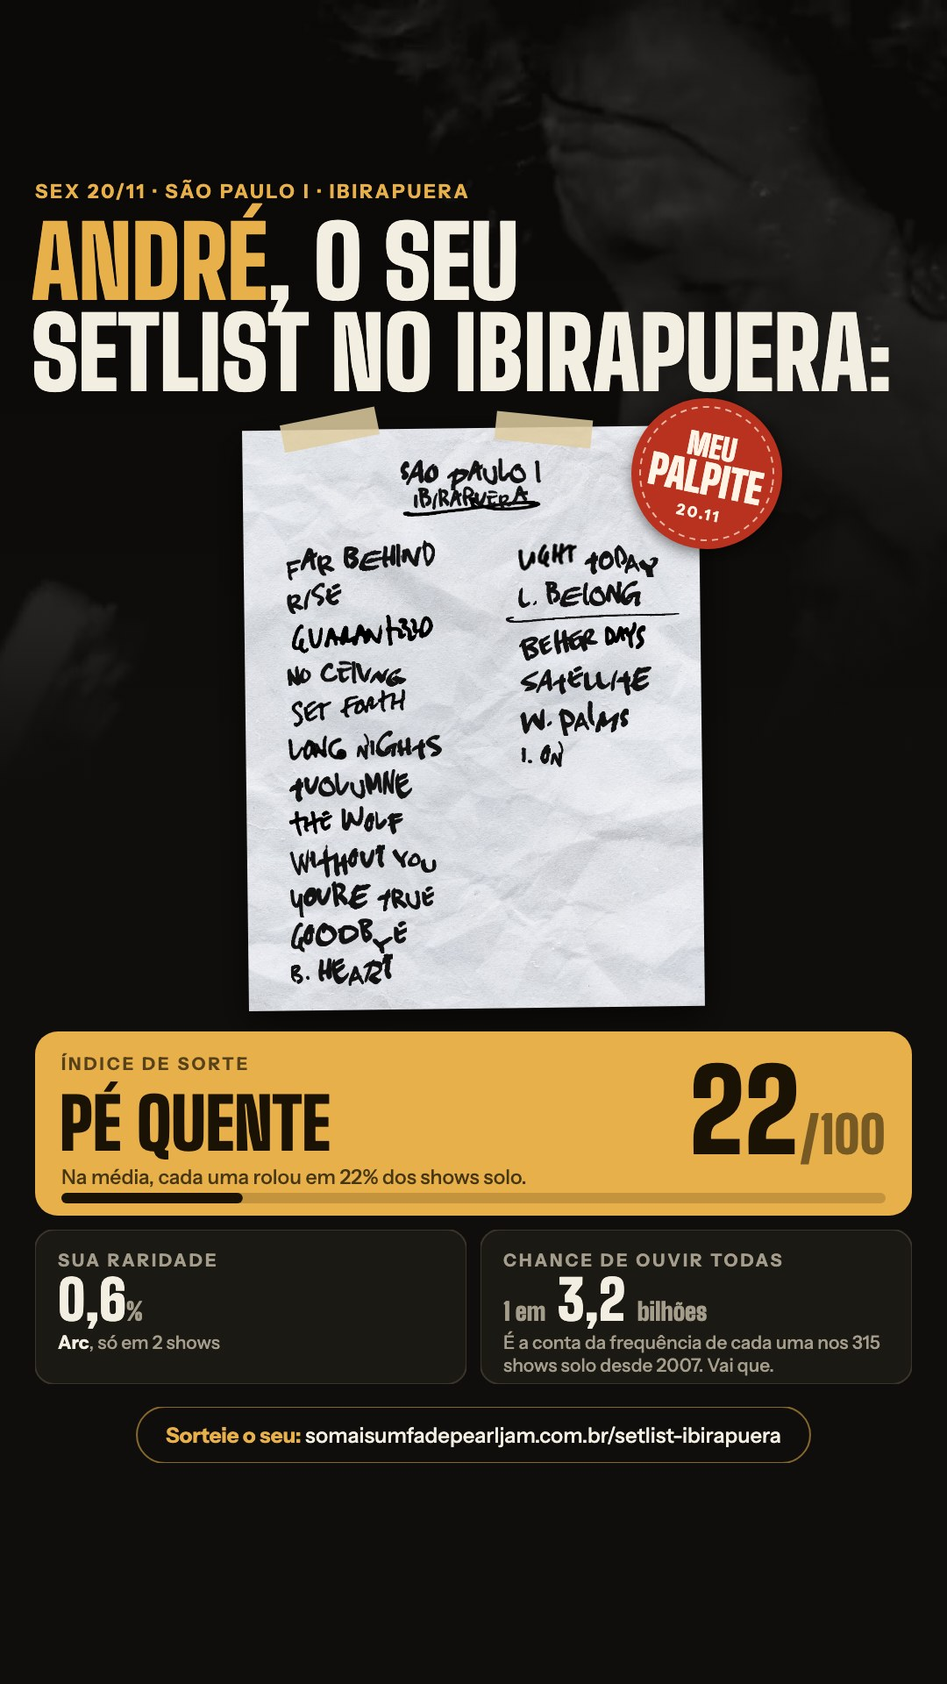
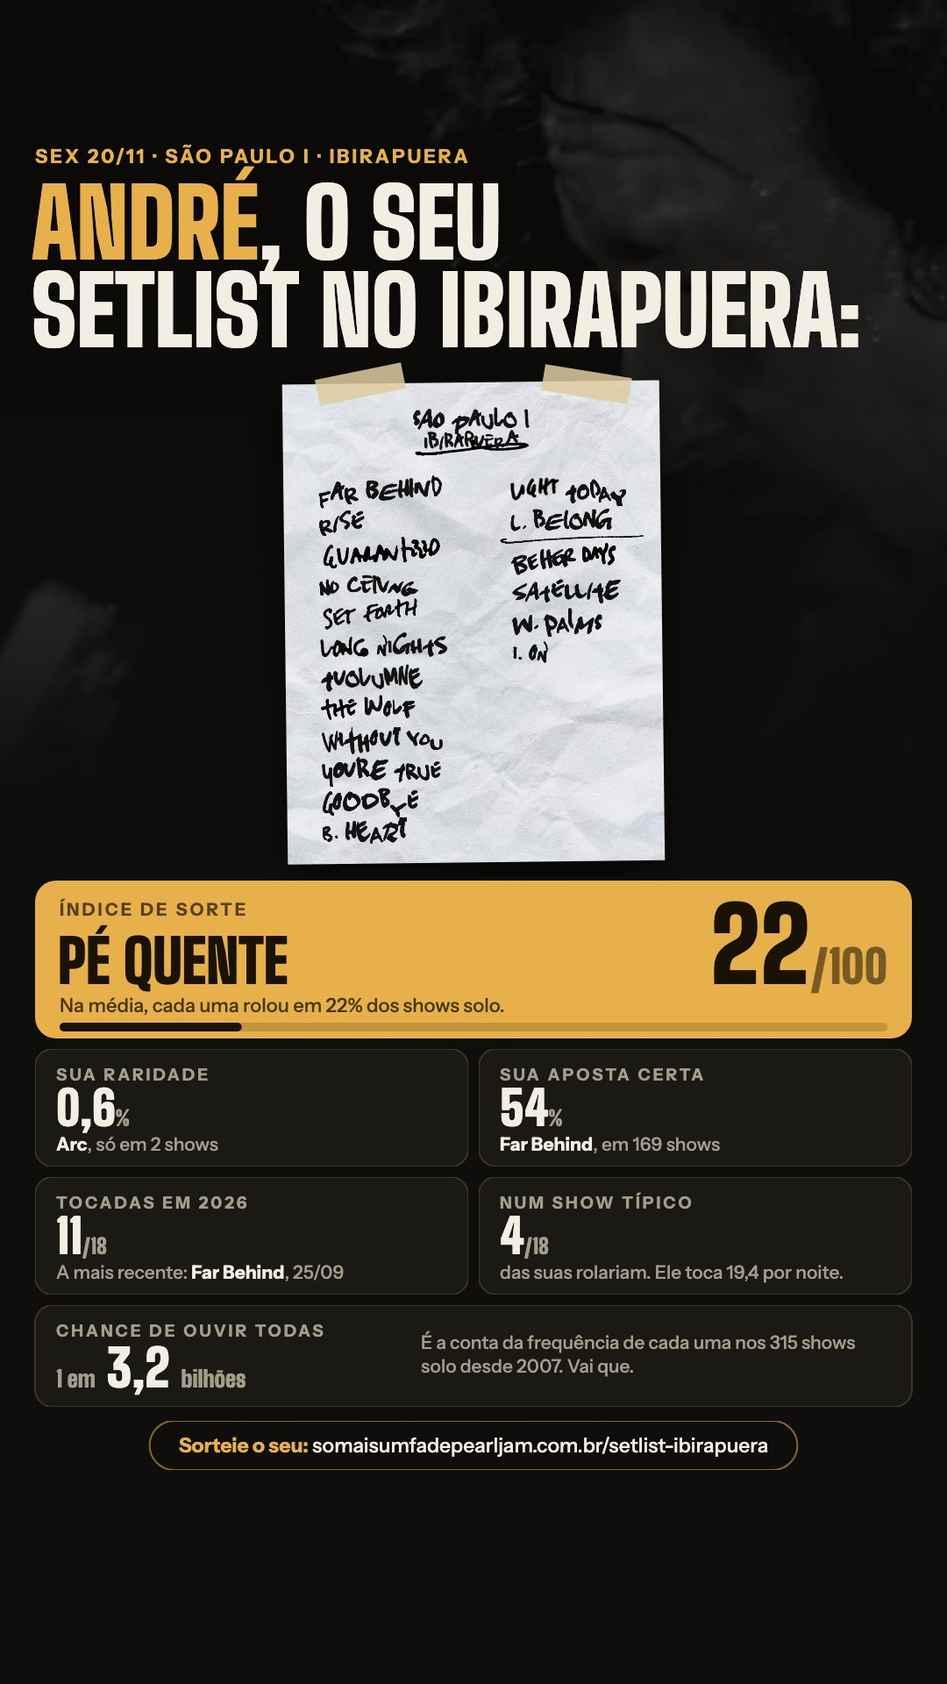
Story do Ibirapuera: sem o selo, de volta as 6 estatísticas, números contando no vídeo e botão de vídeo que ensina a abrir no navegador dentro do Instagram
Claude-Session: https://claude.ai/code/session_01SJkFmPhr1hUSUiBTJUMKMm

diff --git a/setlist-ibirapuera/story.js b/setlist-ibirapuera/story.js
@@ -1,13 +1,14 @@
-// Story 1080x1920 pra postar: título do resultado no topo ("ANDRÉ, O SEU / SETLIST NO IBIRAPUERA"), a folha no meio com o
-// selo "MEU PALPITE", o veredito do índice de sorte em letra grande e 2 cartas embaixo. Lê o que a tela de resultado já
-// mostra (#r-show, #r-nome, #sorte), então fica igual ao site. Texto fora das faixas que o Instagram cobre (topo ~160 px,
-// rodapé ~260 px). O desenho sai em camadas (montar) pra o story em vídeo (story-video.js) animar a entrada de cada uma.
-import { W, H, M, COR, DISP, CORPO, carregar, fontes, tela, caixa, linha, quebrar, pedacos, tamanho, VAL, TXT, rotulo } from './story-pincel.js';
+// Story 1080x1920 pra postar: título do resultado no topo ("ANDRÉ, O SEU / SETLIST NO IBIRAPUERA"), a folha no meio e as 6
+// cartas de sorte embaixo (o veredito do índice em letra grande). Lê o que a tela de resultado já mostra (#r-show, #r-nome,
+// #sorte), então fica igual ao site. Texto fora das faixas que o Instagram cobre (topo ~170 px, rodapé ~250 px).
+// O desenho sai em camadas (montar) pra o story em vídeo (story-video.js) animar cada uma; o número de cada carta é
+// desenhado à parte (numero), pra o vídeo contar de 0 até o valor.
+import { W, H, M, COR, DISP, carregar, fontes, tela, caixa, linha, quebrar, pedacos, tamanho, VAL, TXT, rotulo } from './story-pincel.js';
 
 const $ = (s) => document.querySelector(s);
-const D = 30; // desce tudo um pouco: o topo e o rodapé ficam com folga parecida pras faixas do Instagram
-const FOLHA = { y: 458 + D, larg: 520 }, INDICE = { y: 1146 + D, h: 210 }, CARTAS = { y: 1372 + D, h: 176 }, CTA = { y: 1574 + D, h: 64 };
-const PREFERIDAS = ['Sua raridade', 'Chance de ouvir todas', 'Sua aposta certa', 'Tocadas em 2026', 'Num show típico'];
+const FOLHA = { y: 436, larg: 430 }, INDICE = { y: 1004, h: 180 }, GRADE = { y: 1196, h: 134, gap: 12 };
+const CHANCE = { y: 1488, h: 116 }, CTA = { y: 1620, h: 56 };
+const ORDEM = ['Sua raridade', 'Sua aposta certa', 'Tocadas em 2026', 'Num show típico'];
 
 // Fundo: quadro do vídeo do Eddie (foto ou o próprio <video>) no alto, sumindo no escuro.
 export function fundo(c, quadro) {
@@ -19,31 +20,15 @@ export function fundo(c, quadro) {
 }
 
 function titulo(c) {
-  rotulo(c, M, 196 + D, $('#r-show')?.textContent || 'Ibirapuera', COR.ouro, 22);
-  const base = { fonte: tamanho(112, DISP, 900), cor: COR.texto };
+  rotulo(c, M, 186, $('#r-show')?.textContent || 'Ibirapuera', COR.ouro, 22);
+  const base = { fonte: tamanho(108, DISP, 900), cor: COR.texto };
   const linhas = [[]]; // o <br> do #r-nome separa as duas linhas
   for (const n of $('#r-nome')?.childNodes || []) {
     if (n.nodeName === 'BR') linhas.push([]);
     else linhas.at(-1).push({ ...base, cor: n.nodeName === 'EM' ? COR.ouro : COR.texto, t: n.textContent.toUpperCase() });
   }
   if (!linhas[0].length) linhas[0] = [{ ...base, t: 'O SEU SETLIST' }];
-  linhas.filter((l) => l.length).slice(0, 2).forEach((ped, i) => { ped[0].t = ped[0].t.trimStart(); linha(c, M - 4, 312 + D + i * 104, ped, W - 2 * M); });
-}
-
-// Selo vermelho colado no canto da folha: deixa claro que é palpite (não o setlist de verdade) e dá cara de coisa sua.
-export const SELO = { x: (W + FOLHA.larg) / 2 + 6, y: FOLHA.y + 52, r: 86 };
-function selo(c) {
-  const data = ($('#r-show')?.textContent.match(/\d\d\/\d\d/) || ['20/11'])[0].replace('/', '.');
-  c.save(); c.translate(SELO.x, SELO.y); c.rotate(0.2);
-  c.shadowColor = 'rgba(0,0,0,.45)'; c.shadowBlur = 16; c.shadowOffsetY = 6;
-  c.beginPath(); c.arc(0, 0, SELO.r, 0, Math.PI * 2); c.fillStyle = COR.tinta; c.fill(); c.shadowColor = 'transparent';
-  c.setLineDash([7, 6]); c.strokeStyle = 'rgba(255,240,220,.7)'; c.lineWidth = 2;
-  c.beginPath(); c.arc(0, 0, SELO.r - 10, 0, Math.PI * 2); c.stroke(); c.setLineDash([]);
-  c.fillStyle = '#fff4e6'; c.textAlign = 'center';
-  c.font = `900 34px ${DISP}`; c.fillText('MEU', 0, -18);
-  c.font = `900 46px ${DISP}`; c.fillText('PALPITE', 0, 24);
-  c.font = `700 17px ${CORPO}`; c.letterSpacing = '3px'; c.fillText(data, 0, 52); c.letterSpacing = '0px';
-  c.restore();
+  linhas.filter((l) => l.length).slice(0, 2).forEach((ped, i) => { ped[0].t = ped[0].t.trimStart(); linha(c, M - 4, 296 + i * 100, ped, W - 2 * M); });
 }
 
 function folhaNoMeio(c, folha) {
@@ -52,69 +37,84 @@ function folhaNoMeio(c, folha) {
   c.shadowColor = 'rgba(0,0,0,.6)'; c.shadowBlur = 40; c.shadowOffsetY = 14;
   c.drawImage(folha, x, y, larg, alt); c.restore();
   c.fillStyle = 'rgba(222,205,160,.85)';
-  for (const [fx, ang] of [[x + 46, -0.2], [x + larg - 230, 0.1]]) {
-    c.save(); c.translate(fx + 50, y + 2); c.rotate(ang); c.fillRect(-55, -16, 110, 32); c.restore();
+  for (const [fx, ang] of [[x + 36, -0.2], [x + larg - 136, 0.16]]) {
+    c.save(); c.translate(fx + 50, y + 2); c.rotate(ang); c.fillRect(-50, -15, 100, 30); c.restore();
   }
 }
 
-// Carta dourada: veredito grande ("PÉ QUENTE"), a explicação embaixo e o índice à direita. Devolve o medidor
-// (o vídeo enche a barra aos poucos; a foto pinta cheia).
+// Carta dourada: veredito grande ("PÉ QUENTE"), a explicação embaixo, o índice à direita e o medidor.
 function cartaIndice(c, el) {
   const { y, h } = INDICE;
-  caixa(c, M, y, W - 2 * M, h, 26, COR.ouro);
-  rotulo(c, M + 30, y + 44, el.querySelector('.rot').textContent, 'rgba(26,19,5,.7)');
+  caixa(c, M, y, W - 2 * M, h, 24, COR.ouro);
+  rotulo(c, M + 28, y + 40, el.querySelector('.rot').textContent, 'rgba(26,19,5,.7)');
   const ver = (el.querySelector('.txt b')?.textContent || '').replace(/[.!]\s*$/, '').toUpperCase();
-  linha(c, M + 28, y + 136, [{ fonte: tamanho(80, DISP, 900), cor: COR.esc, t: ver }], 620);
-  linha(c, M + 30, y + 174, pedacos(el.querySelector('.txt'), TXT('rgba(26,19,5,.78)', COR.esc, 23), 'B'), 640);
-  linha(c, W - M - 30, y + 140, pedacos(el.querySelector('.val'), VAL(COR.esc, 'rgba(26,19,5,.55)', 128)), 300, 'right');
-  const med = { x: M + 30, y: y + h - 26, w: W - 2 * M - 60, h: 12, pct: parseFloat(el.querySelector('.medidor i')?.style.width) || 0 };
-  caixa(c, med.x, med.y, med.w, med.h, 6, 'rgba(26,19,5,.18)');
-  return med;
+  linha(c, M + 26, y + 118, [{ fonte: tamanho(68, DISP, 900), cor: COR.esc, t: ver }], 620);
+  linha(c, M + 28, y + 150, pedacos(el.querySelector('.txt'), TXT('rgba(26,19,5,.78)', COR.esc, 22), 'B'), 640);
+  caixa(c, M + 28, y + h - 18, W - 2 * M - 56, 10, 5, 'rgba(26,19,5,.18)');
+  return { medidor: { x: M + 28, y: y + h - 18, w: W - 2 * M - 56, h: 10, pct: parseFloat(el.querySelector('.medidor i')?.style.width) || 0 },
+    numero: { ped: pedacos(el.querySelector('.val'), VAL(COR.esc, 'rgba(26,19,5,.55)', 116)), x: W - M - 28, y: y + 118, w: 300, al: 'right' } };
 }
 
-export function medidor(c, med, fracao = 1) {
-  caixa(c, med.x, med.y, Math.max(12, med.w * (med.pct / 100) * fracao), med.h, 6, COR.esc);
+function carta(c, el, x, y, w, h) {
+  caixa(c, x, y, w, h, 20, COR.carta, COR.linha);
+  rotulo(c, x + 24, y + 36, el.querySelector('.rot').textContent, COR.fraco, 19);
+  linha(c, x + 24, y + h - 18, pedacos(el.querySelector('.txt'), TXT(COR.fraco, COR.texto, 21)), w - 48);
+  return { numero: { ped: pedacos(el.querySelector('.val'), VAL(COR.texto, COR.fraco, 54)), x: x + 24, y: y + 88, w: w - 48 } };
 }
 
-function carta(c, el, x, w) {
-  const { y, h } = CARTAS;
-  caixa(c, x, y, w, h, 22, COR.carta, COR.linha);
-  rotulo(c, x + 26, y + 42, el.querySelector('.rot').textContent, COR.fraco);
-  linha(c, x + 26, y + 104, pedacos(el.querySelector('.val'), VAL(COR.texto, COR.fraco, 62)), w - 52);
-  quebrar(c, x + 26, y + 136, pedacos(el.querySelector('.txt'), TXT(COR.fraco, COR.texto, 21)), w - 52, 26);
+// "Chance de ouvir todas" ocupa a largura toda: número à esquerda, explicação em 2 linhas à direita.
+function cartaChance(c, el) {
+  const { y, h } = CHANCE, x = M, w = W - 2 * M;
+  caixa(c, x, y, w, h, 20, COR.carta, COR.linha);
+  rotulo(c, x + 24, y + 36, el.querySelector('.rot').textContent, COR.fraco, 19);
+  quebrar(c, x + 440, y + 50, pedacos(el.querySelector('.txt'), TXT(COR.fraco, COR.texto, 21)), w - 464, 27);
+  return { numero: { ped: pedacos(el.querySelector('.val'), VAL(COR.texto, COR.fraco, 58)), x: x + 24, y: y + 94, w: 390 } };
 }
 
 function cta(c) {
-  const { y, h } = CTA, txt = [{ fonte: tamanho(24, CORPO, 700), cor: COR.ouro, t: 'Sorteie o seu: ' },
-    { fonte: tamanho(24, CORPO, 500), cor: COR.texto, t: 'somaisumfadepearljam.com.br/setlist-ibirapuera' }];
+  const { y, h } = CTA, txt = [{ fonte: tamanho(23, '"Instrument Sans", system-ui, sans-serif', 700), cor: COR.ouro, t: 'Sorteie o seu: ' },
+    { fonte: tamanho(23, '"Instrument Sans", system-ui, sans-serif', 500), cor: COR.texto, t: 'somaisumfadepearljam.com.br/setlist-ibirapuera' }];
   c.font = txt[1].fonte(1);
   const w = Math.min(W - 2 * M, c.measureText(txt[0].t + txt[1].t).width + 70);
   caixa(c, (W - w) / 2, y, w, h, h / 2, 'rgba(15,14,12,.7)', 'rgba(232,176,74,.55)');
-  linha(c, W / 2, y + h / 2 + 9, txt, w - 50, 'center');
+  linha(c, W / 2, y + h / 2 + 8, txt, w - 50, 'center');
+}
+
+// Número da carta; f < 1 conta de 0 até o valor (só os algarismos grandes, "1 em" e expoente ficam).
+export function numero(c, n, f = 1) {
+  const ped = f >= 1 ? n.ped : n.ped.map((p) => (p.fixo ? p : { ...p, t: p.t.replace(/\d+(?:,\d+)?/g, (v) => {
+    const casas = (v.split(',')[1] || '').length, num = parseFloat(v.replace(',', '.')) * f;
+    return num.toLocaleString('pt-BR', { minimumFractionDigits: casas, maximumFractionDigits: casas });
+  }) }));
+  linha(c, n.x, n.y, ped, n.w, n.al);
+}
+
+export function medidor(c, med, f = 1) {
+  caixa(c, med.x, med.y, Math.max(10, med.w * (med.pct / 100) * f), med.h, 5, COR.esc);
 }
 
 // Cada camada vira um canvas recortado (barato de desenhar 30 vezes por segundo no vídeo).
 function camada(nome, x, y, w, h, pintar) {
   const cv = tela(w, h), c = cv.getContext('2d');
   c.translate(-x, -y);
-  const extra = pintar(c);
-  return { nome, x, y, w, h, cv, extra };
+  return { nome, x, y, w, h, cv, ...(pintar(c) || {}) };
 }
 
 export async function montar(folha) {
   await fontes();
   const cartas = [...document.querySelectorAll('#sorte .carta:not(.esqueleto)')];
   const ind = cartas.find((el) => el.classList.contains('indice'));
-  const resto = cartas.filter((el) => el !== ind).sort((a, b) => {
-    const p = (el) => { const i = PREFERIDAS.indexOf(el.querySelector('.rot')?.textContent.trim()); return i < 0 ? 99 : i; };
-    return p(a) - p(b);
-  }).slice(0, 2);
-  const altFolha = folha.height * (FOLHA.larg / folha.width), wc = resto.length > 1 ? (W - 2 * M - 16) / 2 : W - 2 * M;
-  const camadas = [camada('titulo', 0, 120 + D, W, 330, titulo),
-    camada('folha', 0, FOLHA.y - 90, W, altFolha + 190, (c) => folhaNoMeio(c, folha)),
-    camada('selo', SELO.x - SELO.r - 30, SELO.y - SELO.r - 30, 2 * SELO.r + 60, 2 * SELO.r + 60, selo)];
-  if (ind) camadas.push(camada('indice', 0, INDICE.y, W, INDICE.h, (c) => cartaIndice(c, ind)));
-  resto.forEach((el, i) => camadas.push(camada('carta', M + i * (wc + 16), CARTAS.y, wc, CARTAS.h, (c) => carta(c, el, M + i * (wc + 16), wc))));
+  const chance = cartas.find((el) => el.classList.contains('larga') && el !== ind);
+  const rot = (el) => el.querySelector('.rot')?.textContent.trim();
+  const grade = cartas.filter((el) => el !== ind && el !== chance).sort((a, b) => ORDEM.indexOf(rot(a)) - ORDEM.indexOf(rot(b))).slice(0, 4);
+  const altFolha = folha.height * (FOLHA.larg / folha.width), wc = (W - 2 * M - GRADE.gap) / 2;
+  const camadas = [camada('titulo', 0, 110, W, 320, titulo), camada('folha', 0, FOLHA.y - 80, W, altFolha + 170, (c) => folhaNoMeio(c, folha))];
+  if (ind) camadas.push(camada('carta', 0, INDICE.y, W, INDICE.h, (c) => cartaIndice(c, ind)));
+  grade.forEach((el, i) => {
+    const x = M + (i % 2) * (wc + GRADE.gap), y = GRADE.y + Math.floor(i / 2) * (GRADE.h + GRADE.gap);
+    camadas.push(camada('carta', x, y, wc, GRADE.h, (c) => carta(c, el, x, y, wc, GRADE.h)));
+  });
+  if (chance) camadas.push(camada('carta', 0, CHANCE.y, W, CHANCE.h, (c) => cartaChance(c, chance)));
   camadas.push(camada('cta', 0, CTA.y, W, CTA.h, cta));
   return camadas;
 }
@@ -123,6 +123,10 @@ export async function story(folha) {
   const [camadas, quadro] = await Promise.all([montar(folha), carregar('fundo-eddie-quadro.jpg')]);
   const s = tela(W, H), c = s.getContext('2d');
   fundo(c, quadro);
-  for (const k of camadas) { c.drawImage(k.cv, k.x, k.y); if (k.extra) medidor(c, k.extra); }
+  for (const k of camadas) {
+    c.drawImage(k.cv, k.x, k.y);
+    if (k.medidor) medidor(c, k.medidor);
+    if (k.numero) numero(c, k.numero);
+  }
   return s;
 }

diff --git a/setlist-ibirapuera/story-video.js b/setlist-ibirapuera/story-video.js
@@ -1,9 +1,9 @@
-// Story em VÍDEO (8 s, 1080x1920, MP4): o vídeo do Eddie em P&B passando atrás, o título entra, a folha cai, o selo
-// "MEU PALPITE" bate e as cartas sobem. Mesmo desenho do story em foto (camadas de story.js), gravado no navegador da
-// pessoa com canvas.captureStream + MediaRecorder. Só aparece onde o navegador grava MP4 (Instagram não aceita WebM)
-// e fora do navegador interno de app (lá não dá pra salvar vídeo). Desligar: LIGADO = false ou ?sem-video na URL.
+// Story em VÍDEO (8 s, 1080x1920, MP4): o vídeo do Eddie em P&B passando atrás, o título entra, a folha cai, as cartas
+// sobem uma por uma com os números contando de 0 e a barra do índice enchendo. Mesmo desenho do story em foto (camadas de story.js), gravado no navegador da
+// pessoa com canvas.captureStream + MediaRecorder. Só aparece onde o navegador grava MP4 (Instagram pode recusar WebM).
+// No navegador interno do Instagram/Facebook o botão ensina a abrir no Safari/Chrome. Falhou: oferece a imagem na hora. Desligar: LIGADO = false ou ?sem-video na URL.
 import { W, H, tela, carregar } from './story-pincel.js';
-import { montar, fundo, medidor } from './story.js';
+import { montar, fundo, medidor, numero } from './story.js';
 import { entregar, DENTRO_DE_APP } from './salvar.js';
 
 const LIGADO = true;
@@ -11,8 +11,10 @@ const DURACAO = 8, FPS = 30;
 const TIPOS = ['video/mp4;codecs=avc1.42E01F', 'video/mp4;codecs=avc1', 'video/mp4'];
 const $ = (s) => document.querySelector(s);
 
+// 'app' = navegador interno do Instagram/Facebook: o botão aparece, mas ensina a abrir no Safari/Chrome.
 export function formato() {
-  if (!LIGADO || DENTRO_DE_APP || /[?&]sem-video/.test(location.search)) return null;
+  if (!LIGADO || /[?&]sem-video/.test(location.search)) return null;
+  if (DENTRO_DE_APP) return 'app';
   if (typeof MediaRecorder === 'undefined' || !HTMLCanvasElement.prototype.captureStream) return null;
   return TIPOS.find((t) => MediaRecorder.isTypeSupported?.(t)) || null;
 }
@@ -21,28 +23,30 @@ const fase = (t, ini, dur) => Math.min(1, Math.max(0, (t - ini) / dur));
 const sai = (p) => 1 - (1 - p) ** 3;
 const mola = (p) => { const s = 1.4, q = p - 1; return p >= 1 ? 1 : 1 + (s + 1) * q ** 3 + s * q ** 2; };
 
-// Roteiro de entrada de cada camada no tempo t (s): opacidade, deslocamento, giro e escala em volta do centro.
-function entrada(k, t, i) {
+// Roteiro no tempo t (s): o título entra, a folha cai, as cartas sobem uma por uma (j = ordem da carta) e cada número
+// conta de 0 até o valor logo depois que a carta chega; a barra do índice enche junto.
+const chega = (j) => 1.5 + j * 0.3;
+function entrada(k, t) {
   if (k.nome === 'titulo') { const p = sai(fase(t, 0.15, 0.7)); return { a: p, dx: (1 - p) * -60 }; }
-  if (k.nome === 'folha') { const p = fase(t, 0.6, 0.9); return { a: p > 0 ? 1 : 0, dy: (1 - mola(p)) * -1300, rot: (1 - sai(p)) * 0.18 }; }
-  if (k.nome === 'selo') { const p = fase(t, 1.65, 0.3); return { a: p > 0 ? 1 : 0, esc: 1 + (1 - sai(p)) * 1.6 }; }
-  if (k.nome === 'cta') return { a: sai(fase(t, 3.2, 0.5)) };
-  const p = sai(fase(t, 2.1 + Math.max(0, i - 3) * 0.22, 0.55)); // índice, depois as cartas
-  return { a: p, dy: (1 - p) * 140 };
+  if (k.nome === 'folha') { const p = fase(t, 0.5, 0.85); return { a: p > 0 ? 1 : 0, dy: (1 - mola(p)) * -1300, rot: (1 - sai(p)) * 0.18 }; }
+  if (k.nome === 'cta') return { a: sai(fase(t, chega(6) + 0.3, 0.5)) };
+  const p = mola(fase(t, chega(k.j), 0.5));
+  return { a: Math.min(1, fase(t, chega(k.j), 0.25)), dy: (1 - p) * 160, conta: sai(fase(t, chega(k.j) + 0.2, 1.1)) };
 }
 
 function quadro(c, camadas, fonteFundo, t) {
   fundo(c, fonteFundo);
-  camadas.forEach((k, i) => {
-    const e = entrada(k, t, i);
-    if (e.a <= 0) return;
+  for (const k of camadas) {
+    const e = entrada(k, t);
+    if (e.a <= 0) continue;
     const cx = k.x + k.w / 2, cy = k.y + k.h / 2;
     c.save(); c.globalAlpha = e.a;
-    c.translate(cx + (e.dx || 0), cy + (e.dy || 0)); c.rotate(e.rot || 0); c.scale(e.esc || 1, e.esc || 1); c.translate(-cx, -cy);
+    c.translate(cx + (e.dx || 0), cy + (e.dy || 0)); c.rotate(e.rot || 0); c.translate(-cx, -cy);
     c.drawImage(k.cv, k.x, k.y);
-    if (k.extra) medidor(c, k.extra, sai(fase(t, 2.6, 1)));
+    if (k.medidor) medidor(c, k.medidor, e.conta);
+    if (k.numero) numero(c, k.numero, e.conta);
     c.restore();
-  });
+  }
 }
 
 function painel(cv) {
@@ -51,8 +55,8 @@ function painel(cv) {
   p.id = 'salvar-tela';
   p.innerHTML = '<p class="estado" role="status" style="margin:0;font-weight:600">Gravando o seu story…</p><div class="botoes" hidden>' +
     '<button type="button" class="btn cheio">Postar no story</button><button type="button" class="btn">Fechar</button></div>';
-  cv.style.cssText = 'max-width:100%;max-height:64vh;border-radius:6px;background:#000';
-  p.insertBefore(cv, p.querySelector('.botoes'));
+  p.querySelector('.estado').style.cssText += ';max-width:420px;text-align:center;line-height:1.45';
+  if (cv) { cv.style.cssText = 'max-width:100%;max-height:64vh;border-radius:6px;background:#000'; p.insertBefore(cv, p.querySelector('.botoes')); }
   document.body.append(p);
   return p;
 }
@@ -68,6 +72,7 @@ function fundoVivo() {
 async function gravar(tipo) {
   const { v, tocando } = fundoVivo(); // play() ainda dentro do toque, senão o iOS bloqueia
   const [camadas, vivo, foto] = await Promise.all([montar($('#folha')), tocando, carregar('fundo-eddie-quadro.jpg')]);
+  camadas.filter((k) => k.nome === 'carta').forEach((k, j) => { k.j = j; });
   const cv = tela(W, H), c = cv.getContext('2d');
   const p = painel(cv), estado = p.querySelector('.estado');
   const rec = new MediaRecorder(cv.captureStream(FPS), { mimeType: tipo, videoBitsPerSecond: 6e6 });
@@ -92,6 +97,17 @@ async function gravar(tipo) {
   return { blob: new Blob(partes, { type: tipo.split(';')[0] }), p };
 }
 
+// Tela de recado com uma saída (ex.: baixar a imagem) e Fechar.
+function recado(txt, rotuloAcao, acao) {
+  const p = painel(null);
+  p.querySelector('.estado').textContent = txt;
+  p.querySelector('.botoes').hidden = false;
+  const [sim, fechar] = p.querySelectorAll('.botoes button');
+  sim.textContent = rotuloAcao;
+  sim.onclick = () => { p.remove(); acao(); };
+  fechar.onclick = () => p.remove();
+}
+
 async function storyVideo(b, tipo) {
   if (b.disabled || b.classList.contains('gerando')) return;
   b.classList.add('gerando');
@@ -109,8 +125,8 @@ async function storyVideo(b, tipo) {
     postar.onclick = () => entregar(blob, nome, { compartilhar: matchMedia('(pointer: coarse)').matches });
     fechar.onclick = () => { p.remove(); URL.revokeObjectURL(url); };
   } catch (e) {
-    $('#salvar-tela')?.remove();
-    $('#aviso').textContent = 'O vídeo não saiu neste celular. Baixe a imagem pro story.';
+    $('#aviso').textContent = 'O vídeo não saiu neste celular. A imagem sai na hora.';
+    recado('O vídeo não saiu neste celular. Quer a imagem pro story? Sai na hora.', 'Baixar a imagem', () => $('#story').click());
   }
   b.classList.remove('gerando');
 }
@@ -122,5 +138,8 @@ if (tipo && b) {
   const ref = $('#story'), espelhar = () => { b.disabled = ref.disabled; };
   new MutationObserver(espelhar).observe(ref, { attributes: true, attributeFilter: ['disabled'] });
   espelhar();
-  b.addEventListener('click', () => storyVideo(b, tipo));
+  b.addEventListener('click', () => (tipo === 'app'
+    ? recado('O Instagram não deixa baixar vídeo por aqui. Toque no menu ••• lá em cima, escolha "Abrir no navegador" '
+      + '(Safari ou Chrome) e toque de novo em "Baixar o vídeo pro story". A imagem funciona aqui mesmo.', 'Baixar a imagem', () => $('#story').click())
+    : storyVideo(b, tipo)));
 }

diff --git a/setlist-ibirapuera/index.html b/setlist-ibirapuera/index.html
@@ -7,13 +7,13 @@
 <meta name="description" content="Qual será o setlist do Eddie Vedder no Ibirapuera? Sorteie ou monte a sua previsão, escrita à mão, e poste no story.">
 <meta name="robots" content="noindex">
 <link rel="preconnect" href="https://assets.glitch.ge" crossorigin>
-<script type="importmap">{"imports":{"./app.js":"./app.js?v=55274958","./folha.js":"./folha.js?v=b8e738c0","./salvar.js":"./salvar.js?v=edd4ad39","./sorteio.js":"./sorteio.js?v=b670c49a","./story.js":"./story.js?v=c77c6db1","./story-pincel.js":"./story-pincel.js?v=19c22ae9","./story-video.js":"./story-video.js?v=50b6f3b8","./telas.js":"./telas.js?v=ae3e9cfa","./lista.js":"./lista.js?v=14bec288","./filtro.js":"./filtro.js?v=7806d002"}}</script>
-<link rel="modulepreload" href="app.js?v=55274958">
+<script type="importmap">{"imports":{"./app.js":"./app.js?v=fec57372","./folha.js":"./folha.js?v=b8e738c0","./salvar.js":"./salvar.js?v=edd4ad39","./sorteio.js":"./sorteio.js?v=b670c49a","./story.js":"./story.js?v=0ba86180","./story-pincel.js":"./story-pincel.js?v=14fd7531","./story-video.js":"./story-video.js?v=75c45a4b","./telas.js":"./telas.js?v=ae3e9cfa","./lista.js":"./lista.js?v=14bec288","./filtro.js":"./filtro.js?v=7806d002"}}</script>
+<link rel="modulepreload" href="app.js?v=fec57372">
 <link rel="modulepreload" href="folha.js?v=b8e738c0">
 <link rel="modulepreload" href="salvar.js?v=edd4ad39">
 <link rel="modulepreload" href="sorteio.js?v=b670c49a">
-<link rel="modulepreload" href="story.js?v=c77c6db1">
-<link rel="modulepreload" href="story-pincel.js?v=19c22ae9">
+<link rel="modulepreload" href="story.js?v=0ba86180">
+<link rel="modulepreload" href="story-pincel.js?v=14fd7531">
 <script>window.musicasCedo = fetch('musicas.json?v=0292cef2').then(function (r) { return r.json(); });</script>
 <meta name="theme-color" content="#0f0e0c">
 <link rel="preconnect" href="https://fonts.googleapis.com">
@@ -520,10 +520,10 @@
 <div class="toast" id="toast" role="status"></div>
 
 <button id="atalho" hidden></button>
-<script type="module" src="app.js?v=55274958"></script>
+<script type="module" src="app.js?v=fec57372"></script>
 <script type="module" src="telas.js?v=ae3e9cfa"></script>
 <script type="module" src="lista.js?v=14bec288"></script>
 <script type="module" src="filtro.js?v=7806d002"></script>
-<script type="module" src="story-video.js?v=50b6f3b8"></script>
+<script type="module" src="story-video.js?v=75c45a4b"></script>
 </body>
 </html>

diff --git a/setlist-ibirapuera/story-pincel.js b/setlist-ibirapuera/story-pincel.js
@@ -64,8 +64,8 @@ export function pedacos(el, base, pular = '') {
 }
 
 export const tamanho = (px, fam, peso) => (e) => `${peso} ${Math.round(px * e)}px ${fam}`;
-export const VAL = (cor, fraco, px) => ({ normal: { fonte: tamanho(px, DISP, 900), cor }, small: { fonte: tamanho(px * 0.45, DISP, 900), cor: fraco },
-  sup: { fonte: tamanho(px * 0.5, DISP, 900), cor, dy: px * 0.4 }, b: { fonte: tamanho(px, DISP, 900), cor } });
+export const VAL = (cor, fraco, px) => ({ normal: { fonte: tamanho(px, DISP, 900), cor }, small: { fonte: tamanho(px * 0.45, DISP, 900), cor: fraco, fixo: true },
+  sup: { fonte: tamanho(px * 0.5, DISP, 900), cor, dy: px * 0.4, fixo: true }, b: { fonte: tamanho(px, DISP, 900), cor } });
 export const TXT = (cor, forte, px) => ({ normal: { fonte: tamanho(px, CORPO, 500), cor }, small: { fonte: tamanho(px, CORPO, 500), cor },
   sup: { fonte: tamanho(px, CORPO, 500), cor }, b: { fonte: tamanho(px, CORPO, 700), cor: forte } });
 
